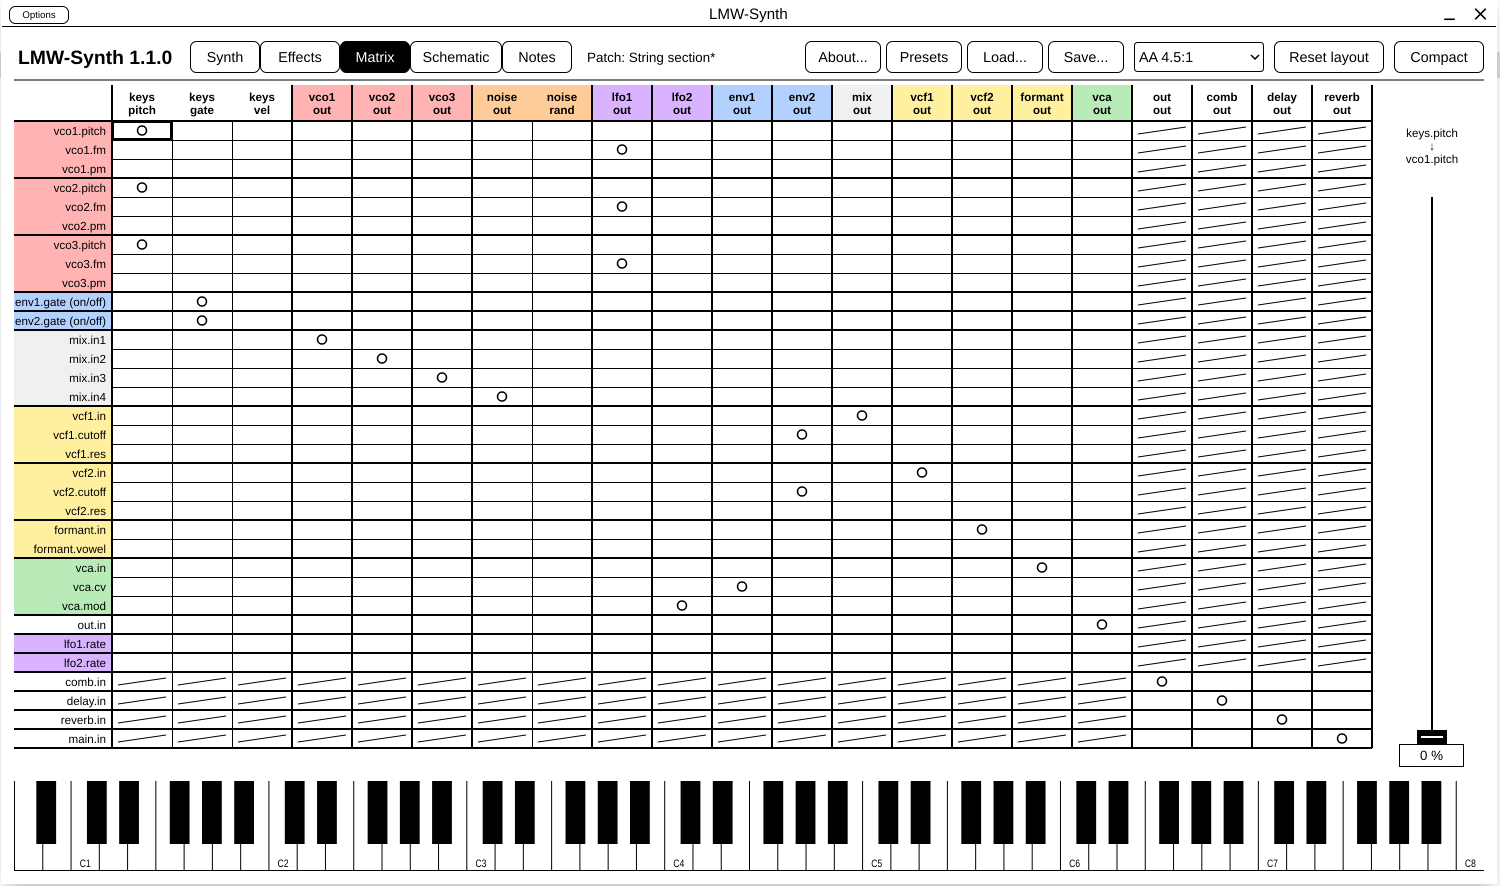
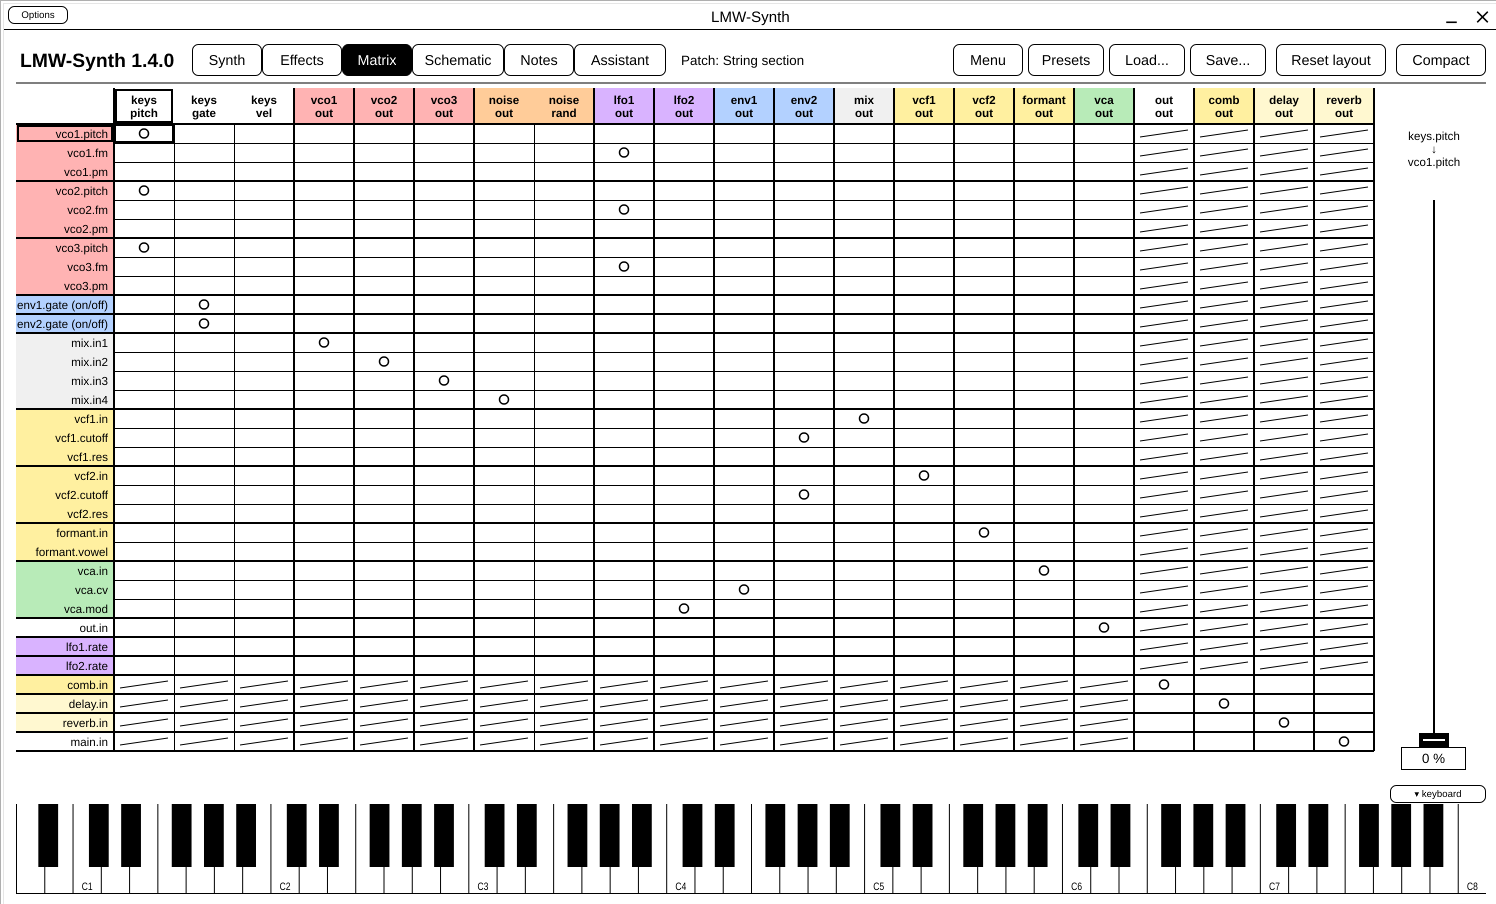
Screenshots regenerated (Synth, Effects, Matrix, Schematic): fader scale ticks and tags, rack rails, Menu header; String section preset as before; logged

Changed region(s): [[0.0, 0.0, 1.0, 1.0]]

diff --git a/architecture/Conversation-2026-11-24.md b/architecture/Conversation-2026-11-24.md
@@ -22,4 +22,5 @@
 - User: commit 24c (d087ebe) and do the crosscheck.
 - Spec items written before Phase 24 that it changed, marked with "since Phase 24x": S3.2 keyboard keys (normal width at the right), S6.1 hover scale words (S6.17), S6.4 sizes now the minimum, S6.5 row width / window size, S6.6 and S6.7 drop ring and port cursor (highlight box), S6.12 hidden keyboard (standalone keeps its size), S6.13 theme items and color_ keys (highlight); S6.16 sizes as measured.
 - Code vs Spec S6.15–S6.17: all as built (Synth, Effects and Schematic sockets; Matrix has no sockets; tags and ticks on Synth and Effects; /info scale). Plan rows 24, 24a–c, L11 match. Tests T-S6.15/16/17 pass.
-- Open: the tutorial screenshots (synth.png, matrix.png, ...) show the 1.4.0 look (no tags, ticks, rails); not regenerated.
+- Open: the tutorial screenshots (synth.png, matrix.png, ...) show the 1.4.0 look (no tags, ticks, rails); not regenerated (done below).
+- User: commit (0baba57) and regenerate the screenshots. docs/images/synth, effects, matrix, schematic.png taken again on Xvfb (1496 × 904 window, the String section preset, as before): ticks, tags, rack rails, the Menu header, 1.4.0; effects cropped to the panels. T-S9.8-html passes.
